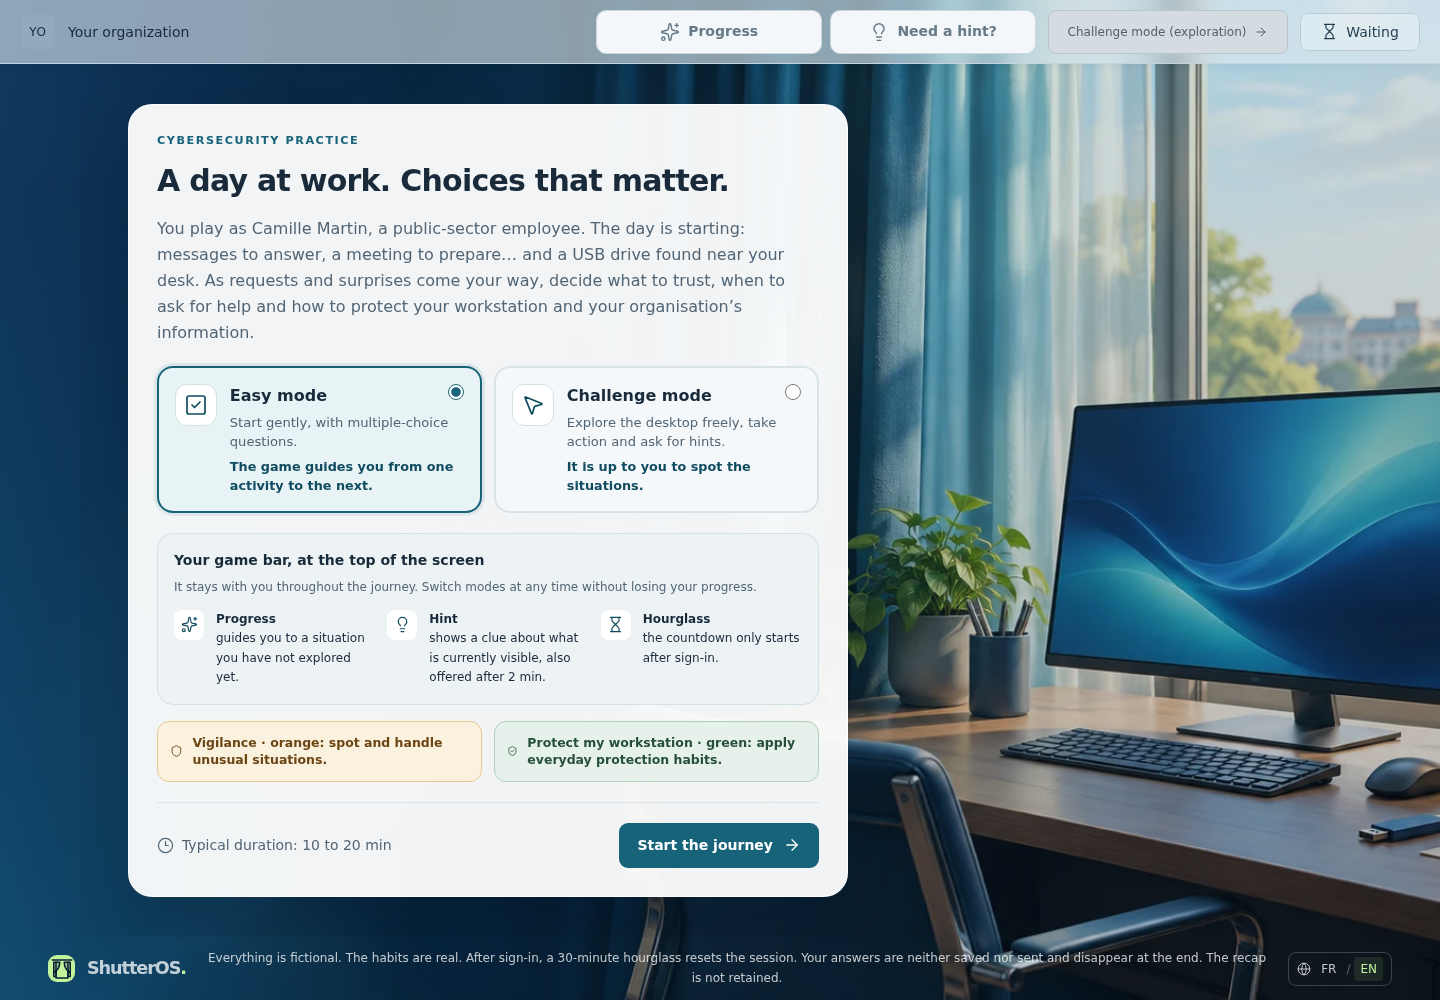
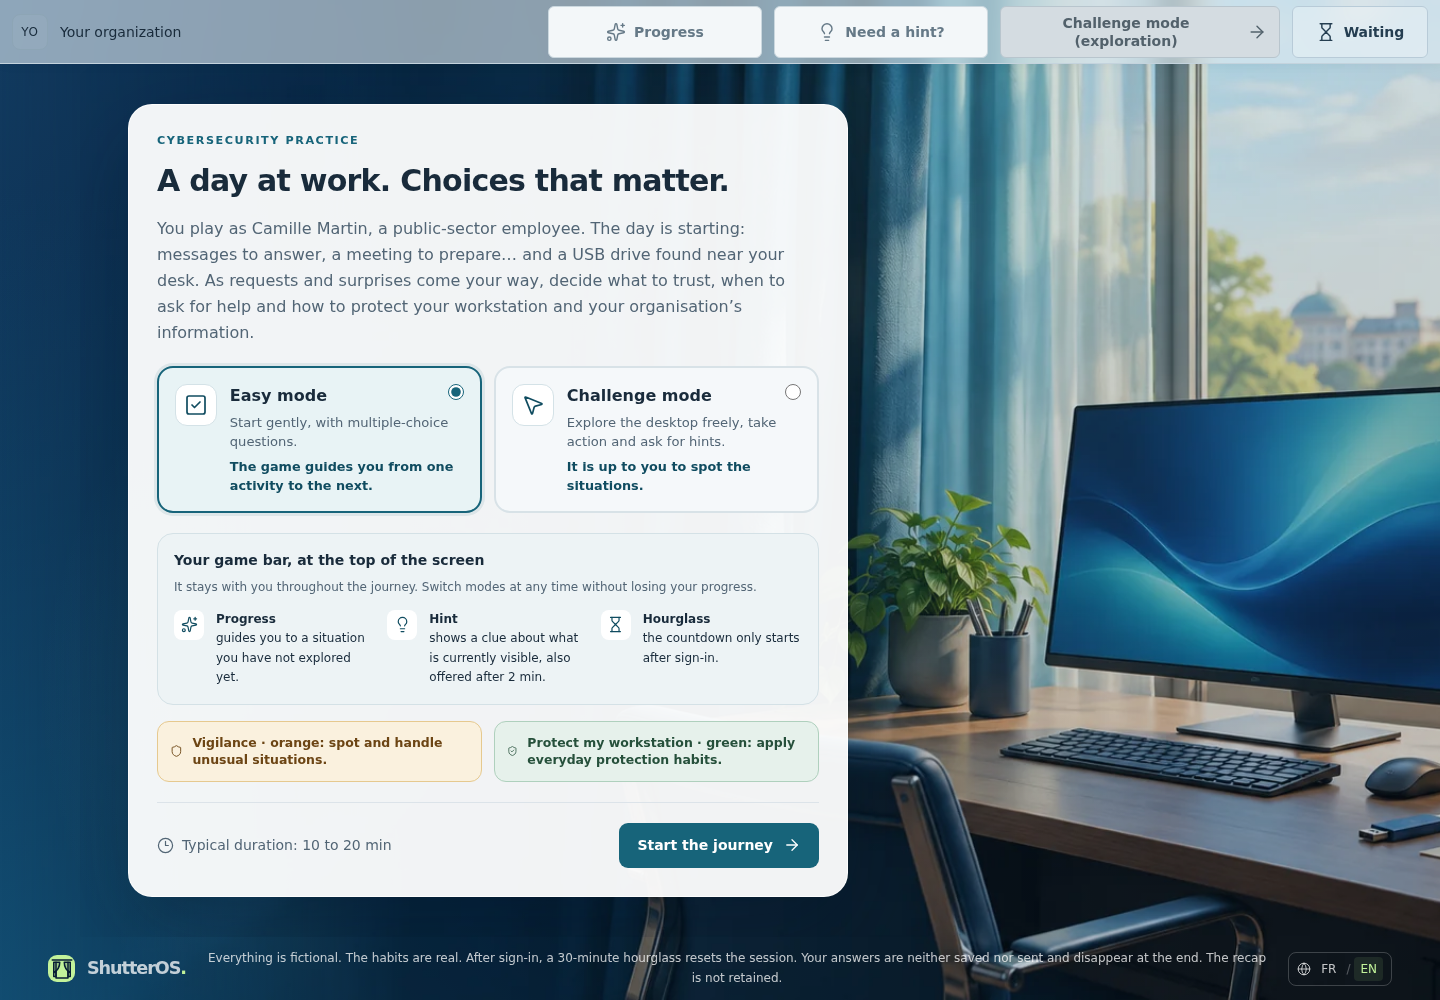
style(shell): unify game-bar control sizing and spacing

Changed region(s): [[0.375, 0.0, 0.875, 0.062], [0.9062, 0.0, 0.9688, 0.062], [0.0625, 0.031, 0.125, 0.062]]

diff --git a/packages/components/src/theme.css b/packages/components/src/theme.css
@@ -308,7 +308,7 @@ button:active:not(:disabled) {
 }
 
 .session-timer {
-  inline-size: 120px;
+  inline-size: 136px;
   flex: none;
   justify-content: center;
   white-space: nowrap;
@@ -1590,19 +1590,30 @@ button:active:not(:disabled) {
   gap: 0;
 }
 
-/* Stable slots for progress, hints and choices across both exploration modes. */
+/* Stable game-bar slots before and after sign-in, in either exploration mode. */
 .os-topbar {
   --shell-gap: 12px;
-  height: 64px;
+  --shell-inset: 6px;
+  --shell-item-height: 52px;
+  --shell-radius: 6px;
+  height: calc(var(--shell-item-height) + 2 * var(--shell-inset));
   flex: none;
   display: grid;
   grid-template-columns: minmax(0, 1fr) auto;
   align-items: center;
   gap: var(--shell-gap);
-  padding: 8px 20px;
+  padding: var(--shell-inset) var(--shell-gap);
   position: relative;
   z-index: 50;
-  border-bottom: 1px solid #c4d3dd;
+  box-shadow:
+    inset 0 -1px 0 #c4d3dd,
+    0 -1px 12px #071d3410;
+}
+.os-topbar .organization-identity {
+  gap: var(--shell-gap);
+}
+.os-topbar .organization-campaign {
+  padding-inline-start: var(--shell-gap);
 }
 .os-topbar .organization-group {
   display: grid;
@@ -1610,7 +1621,7 @@ button:active:not(:disabled) {
   grid-auto-columns: minmax(0, max-content);
   justify-content: start;
   width: auto;
-  gap: 8px;
+  gap: var(--shell-gap);
 }
 .os-topbar .organization-brand {
   display: grid;
@@ -1619,8 +1630,8 @@ button:active:not(:disabled) {
   max-width: none;
 }
 .os-topbar .organization-logo {
-  max-height: 52px;
-  border-radius: 6px;
+  max-height: var(--shell-item-height);
+  border-radius: var(--shell-radius);
 }
 .os-topbar .organization-brand.logo-only {
   grid-template-columns: auto;
@@ -1630,30 +1641,44 @@ button:active:not(:disabled) {
   border-color: #8da5b5;
 }
 .session-controls {
+  --control-padding: var(--shell-gap);
   display: grid;
-  grid-template-columns: minmax(360px, 440px) minmax(210px, 240px) auto;
+  grid-template-columns: minmax(360px, 440px) minmax(250px, 280px) auto;
   align-items: center;
   gap: var(--shell-gap);
 }
 .session-help {
   display: grid;
-  grid-template-columns: minmax(0, 1.1fr) minmax(0, 1fr);
+  grid-template-columns: minmax(0, 1fr) minmax(0, 1fr);
   align-items: center;
-  gap: 8px;
+  gap: var(--shell-gap);
 }
 .session-help,
 .session-help .primary-help-slot,
 .session-finish {
   min-width: 0;
 }
-.session-finish button {
+.session-controls :is(.companion-trigger, .guidance-trigger, .finish-experience, .session-timer) {
   display: inline-flex;
   align-items: center;
   justify-content: center;
-  min-height: 44px;
+  height: var(--shell-item-height);
+  min-height: var(--shell-item-height);
+  gap: 8px;
+  padding: 0 var(--control-padding);
+  border-radius: var(--shell-radius);
+  font-family: inherit;
+  font-size: 0.875rem;
+  font-weight: 600;
+  line-height: 18px;
+  text-align: center;
+}
+.session-controls :is(.companion-trigger, .guidance-trigger, .finish-experience) {
   width: 100%;
-  font-size: 0.75rem;
-  white-space: nowrap;
+  white-space: normal;
+}
+.session-controls :is(svg, .help-cue) {
+  flex-shrink: 0;
 }
 .session-finish button:disabled {
   background: #d4dce1;
@@ -1661,14 +1686,6 @@ button:active:not(:disabled) {
   color: #52616b;
   opacity: 1;
   box-shadow: none;
-}
-.session-help .companion-trigger,
-.session-help .guidance-trigger {
-  width: 100%;
-  min-height: 44px;
-  height: 44px;
-  white-space: nowrap;
-  border-radius: 10px;
 }
 .session-help .activity-guidance {
   width: 100%;
@@ -1682,35 +1699,18 @@ button:active:not(:disabled) {
 @media (max-width: 1299px) {
   .os-topbar {
     height: auto;
-    min-height: 116px;
     grid-template-columns: minmax(0, 1fr);
-    grid-template-rows: 52px auto;
+    grid-template-rows: var(--shell-item-height) auto;
     align-items: stretch;
-    row-gap: 6px;
   }
   .os-topbar .desktop-organization {
-    height: 52px;
+    height: var(--shell-item-height);
   }
   .session-controls {
     grid-template-columns: minmax(0, 1fr) minmax(0, 1fr) auto;
   }
-  .session-help .companion-trigger,
-  .session-help .guidance-trigger {
-    font-size: 0.75rem;
-    padding: 6px 8px;
-    height: 48px;
-    min-height: 48px;
-    white-space: normal;
-  }
-  .session-finish button {
-    padding: 6px;
-    white-space: normal;
-  }
 }
 @media (max-width: 699px) {
-  .os-topbar {
-    padding-inline: 12px;
-  }
   .session-controls {
     grid-template-columns: minmax(0, 1fr) auto;
   }
@@ -2056,10 +2056,6 @@ button:active:not(:disabled) {
 
 .progress-slot {
   min-width: 0;
-}
-.progress-slot .companion-trigger {
-  font-size: 0.75rem;
-  padding-inline: 8px;
 }
 .progress-slot .companion-trigger:disabled {
   opacity: 1;

diff --git a/tests/e2e/onboarding.spec.ts b/tests/e2e/onboarding.spec.ts
@@ -231,3 +231,59 @@ test('recap distinguishes viewed hints from guided choices and survives minimisa
   await page.getByRole('button', { name: fr.debrief.backToSummary, exact: true }).click();
   await expect(page.getByText(fr.debrief.summary.hints(1, 8), { exact: true })).toBeVisible();
 });
+
+for (const width of [1440, 390]) {
+  test(`game bar controls keep consistent geometry before and after login at ${width}px`, async ({
+    page,
+  }) => {
+    await page.setViewportSize({ width, height: 1000 });
+    await page.goto('./');
+    const checkControls = async () => {
+      const controls = page.locator('.session-help button, .session-finish button, .session-timer');
+      await expect(controls).toHaveCount(4);
+      const geometry = await controls.evaluateAll((elements) =>
+        elements.map((element) => {
+          const style = getComputedStyle(element);
+          const icon = element.querySelector('svg')!.getBoundingClientRect();
+          return {
+            height: element.getBoundingClientRect().height,
+            radius: style.borderRadius,
+            padding: style.paddingInline,
+            gap: style.gap,
+            font: style.fontSize,
+            iconWidth: icon.width,
+            iconHeight: icon.height,
+          };
+        }),
+      );
+      expect(geometry[0]!.height).toBe(52);
+      expect(geometry[0]!.radius).toBe('6px');
+      const insets = await page.locator('.os-topbar').evaluate((bar) => {
+        const bounds = bar.getBoundingClientRect();
+        const controls = bar.querySelector('.session-controls')!.getBoundingClientRect();
+        return { top: controls.top - bounds.top, bottom: bounds.bottom - controls.bottom };
+      });
+      expect(insets.bottom).toBe(6);
+      if (width === 1440) expect(insets.top).toBe(6);
+      for (const control of geometry) expect(control).toEqual(geometry[0]);
+      expect(
+        await page
+          .locator('.session-help')
+          .evaluate((element) => getComputedStyle(element).columnGap),
+      ).toBe(
+        await page
+          .locator('.session-controls')
+          .evaluate((element) => getComputedStyle(element).columnGap),
+      );
+      expect(await page.evaluate(() => document.documentElement.scrollWidth)).toBe(width);
+    };
+    await checkControls();
+    await beginGuided(page);
+    await page.getByRole('button', { name: fr.login.guidedChoices[0].label, exact: true }).click();
+    await page.getByRole('button', { name: fr.intro.guidedStart, exact: true }).click();
+    await checkControls();
+    await page.locator('.finish-experience').click();
+    await checkControls();
+    await page.screenshot({ path: `test-results/previews/unified-controls-${width}.png` });
+  });
+}

diff --git a/packages/components/src/screens/Session.svelte b/packages/components/src/screens/Session.svelte
@@ -493,24 +493,23 @@
       </div>
       <div class="session-finish">
         <button
-          class="finish-experience rounded-lg px-3 py-2 text-xs"
+          class="finish-experience"
           title={guidedMode ? copy.experience.freeHint : copy.experience.finishHint}
           onclick={() => execute({ type: 'set-mode', mode: guidedMode ? 'free' : 'guided' })}
-          >{guidedMode ? copy.experience.free : copy.experience.guided}<Icon
+          ><span>{guidedMode ? copy.experience.free : copy.experience.guided}</span><Icon
             name="arrow"
-            size={14}
-            class="ml-2 inline"
+            size={20}
           /></button
         >
       </div>
       <span
-        class="session-timer flex items-center gap-2 rounded-lg px-3 py-2 font-mono text-sm font-medium"
+        class="session-timer"
         class:urgent={seconds <= 30}
         title={copy.shell.timeout}
         role="timer"
         aria-live="off"
         aria-label={`${copy.shell.time} : ${formattedTime}`}
-        ><Icon name="hourglass" size={17} /><span aria-hidden="true">{formattedTime}</span></span
+        ><Icon name="hourglass" size={20} /><span aria-hidden="true">{formattedTime}</span></span
       >
     </div>
   {/snippet}

diff --git a/packages/components/src/commons/OnboardingControls.svelte b/packages/components/src/commons/OnboardingControls.svelte
@@ -44,21 +44,14 @@
     </button>
   </div>
   <div class="session-finish">
-    <button
-      class="finish-experience rounded-lg px-3 py-2 text-xs"
-      onclick={onMode}
-      disabled={!onMode}
-    >
-      {mode === 'guided' ? copy.experience.free : copy.experience.guided}<Icon
+    <button class="finish-experience" onclick={onMode} disabled={!onMode}>
+      <span>{mode === 'guided' ? copy.experience.free : copy.experience.guided}</span><Icon
         name="arrow"
-        size={14}
-        class="ml-2 inline"
+        size={20}
       />
     </button>
   </div>
-  <span
-    class="session-timer waiting flex items-center gap-2 rounded-lg px-3 py-2 text-sm font-medium"
-  >
-    <Icon name="hourglass" size={17} /><span>{copy.welcome.controls.waiting}</span>
+  <span class="session-timer waiting">
+    <Icon name="hourglass" size={20} /><span>{copy.welcome.controls.waiting}</span>
   </span>
 </div>

diff --git a/packages/components/src/commons/Guide.svelte b/packages/components/src/commons/Guide.svelte
@@ -28,7 +28,7 @@
     disabled={!canNavigate}
     title={copy.guide.prompt}
     >{#key attention}<span class="help-cue" aria-hidden="true"
-        ><Icon name="sparkles" size={23} /></span
+        ><Icon name="sparkles" size={20} /></span
       >{/key}<span
       >{remaining === 1
         ? copy.guide.counterOne
